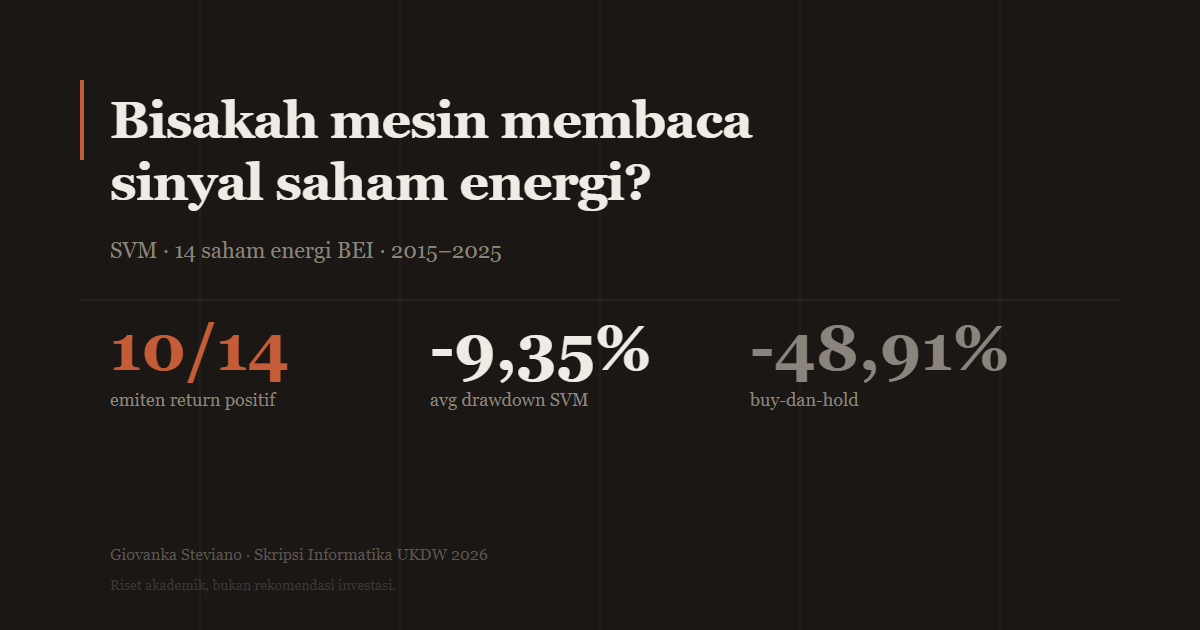
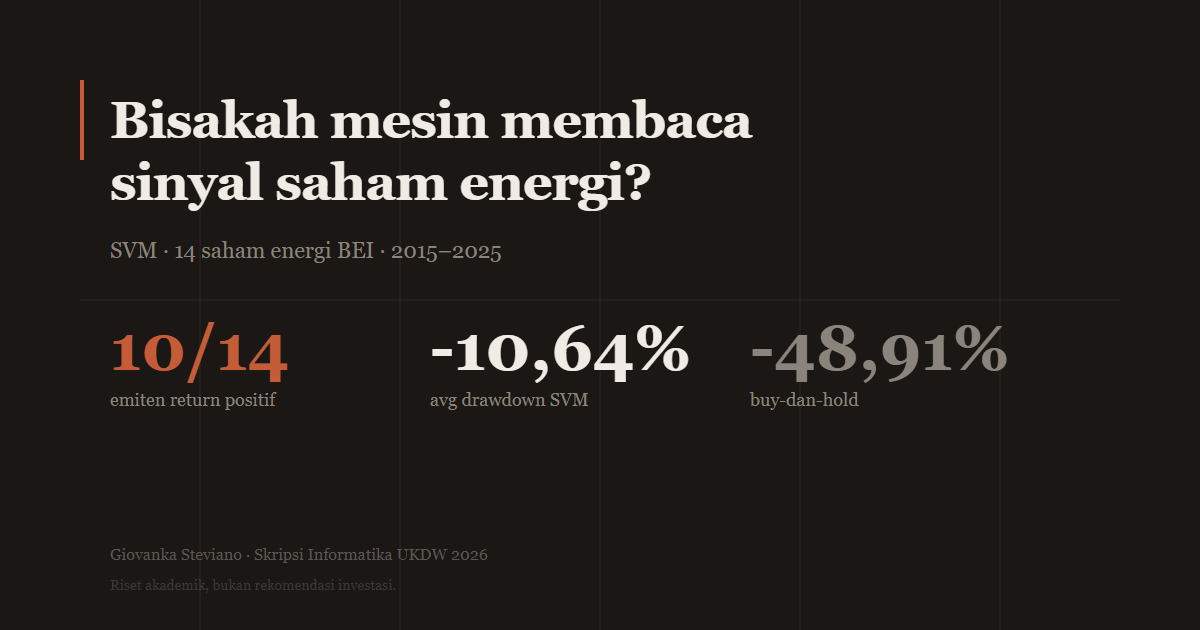
fix: align average SVM drawdown with the CV (-10.64%)

Changed region(s): [[0.37, 0.5127, 0.5858, 0.6032]]

diff --git a/src/translations.js b/src/translations.js
@@ -15,7 +15,7 @@ export const translations = {
     // Hero
     heroKicker: "Skripsi Informatika, UKDW 2026",
     heroTitle: "Bisakah model mengurangi risiko di saham energi?",
-    heroDeck: "Empat indikator. Satu model SVM. 14 saham energi BEI, satu dekade harga harian. Hasilnya: 10 dari 14 emiten return positif dan ketika pasar turun, drawdown −9,35% vs −48,91% buy-and-hold.",
+    heroDeck: "Empat indikator. Satu model SVM. 14 saham energi BEI, satu dekade harga harian. Hasilnya: 10 dari 14 emiten return positif dan ketika pasar turun, drawdown −10,64% vs −48,91% buy-and-hold.",
     heroBtnMasalah: "Mulai dari masalah",
     heroBtnDemo: "Coba demo SVM",
 
@@ -70,7 +70,7 @@ export const translations = {
 
     // Section 04: Temuan
     temuanHeading: "SVM unggul bukan di pasar bull, tapi saat pasar turun.",
-    temuanPull: "Saat buy and hold anjlok -48,91%, strategi SVM menahan rata-rata kerugian di -9,35%.",
+    temuanPull: "Saat buy and hold anjlok -48,91%, strategi SVM menahan rata-rata kerugian di -10,64%.",
     temuanLead: "Ini bukan janji profit. Dari 14 emiten, 10 mencatat return positif (rata-rata 27.29%) dan SVM mengungguli buy-and-hold pada 7 emiten — 5 di antaranya lewat trading nyata, 2 sisanya karena model tidak pernah membuka posisi sama sekali.",
     temuanItemA: "SVM paling unggul di saham bearish: BUMI +17.15% vs -29.81%, ITMG +8.25% vs -44.38%.",
     temuanItemB: "Kernel Polynomial paling sering terpilih (6 dari 14 emiten), menandakan hubungan non-linear indikator dan sinyal.",
@@ -136,7 +136,7 @@ export const translations = {
     // Hero
     heroKicker: "Informatics Thesis, UKDW 2026",
     heroTitle: "Can a machine learning model mitigate risk in energy stocks?",
-    heroDeck: "Four indicators. One SVM model. 14 IDX energy stocks, a decade of daily prices. Results: 10 out of 14 stocks yielded positive returns, reducing average drawdown to −9.35% vs −48.91% for buy-and-hold during market downturns.",
+    heroDeck: "Four indicators. One SVM model. 14 IDX energy stocks, a decade of daily prices. Results: 10 out of 14 stocks yielded positive returns, reducing average drawdown to −10.64% vs −48.91% for buy-and-hold during market downturns.",
     heroBtnMasalah: "Start with problem",
     heroBtnDemo: "Try SVM demo",
 
@@ -191,7 +191,7 @@ export const translations = {
 
     // Section 04: Temuan
     temuanHeading: "SVM excels not in bull markets, but during downturns.",
-    temuanPull: "While buy-and-hold dropped −48.91%, the SVM strategy capped average drawdown at −9.35%.",
+    temuanPull: "While buy-and-hold dropped −48.91%, the SVM strategy capped average drawdown at −10.64%.",
     temuanLead: "This is not a profit guarantee. Among 14 stocks, 10 achieved positive returns (average +27.29%) and SVM outperformed buy-and-hold on 7 stocks — 5 through actual trading, the other 2 only because the model never opened a position at all.",
     temuanItemA: "SVM performed best on bearish stocks: BUMI +17.15% vs -29.81%, ITMG +8.25% vs -44.38%.",
     temuanItemB: "Polynomial kernel was selected most frequently (6 of 14 stocks), highlighting non-linear indicator-signal relationships.",

diff --git a/index.html b/index.html
@@ -7,7 +7,7 @@
     <title>Demo Riset Interaktif - SVM Trading Strategy Saham Energi</title>
     <meta name="description" content="Eksplorasi interaktif riset tentang implementasi Support Vector Machine untuk strategi trading saham sektor energi BEI — masalah, metode, bukti, dan demo model langsung." />
     <meta property="og:title" content="Bisakah mesin membaca sinyal jual-beli saham energi?" />
-    <meta property="og:description" content="SVM + 4 indikator teknikal pada 14 saham energi BEI 2015–2025. 10 dari 14 emiten return positif. Drawdown rata-rata −9,35% vs −48,91% buy-and-hold." />
+    <meta property="og:description" content="SVM + 4 indikator teknikal pada 14 saham energi BEI 2015–2025. 10 dari 14 emiten return positif. Drawdown rata-rata −10,64% vs −48,91% buy-and-hold." />
     <meta property="og:type" content="article" />
     <meta property="og:url" content="https://gio71220924.github.io/Interactive-Skripsi/" />
     <meta property="og:image" content="https://gio71220924.github.io/Interactive-Skripsi/og-image.png" />
@@ -16,7 +16,7 @@
     <meta property="og:image:height" content="630" />
     <meta name="twitter:card" content="summary_large_image" />
     <meta name="twitter:title" content="Bisakah mesin membaca sinyal jual-beli saham energi?" />
-    <meta name="twitter:description" content="SVM + 4 indikator teknikal pada 14 saham energi BEI 2015–2025. 10 dari 14 emiten return positif. Drawdown −9,35% vs −48,91% buy-and-hold." />
+    <meta name="twitter:description" content="SVM + 4 indikator teknikal pada 14 saham energi BEI 2015–2025. 10 dari 14 emiten return positif. Drawdown −10,64% vs −48,91% buy-and-hold." />
     <meta name="twitter:image" content="https://gio71220924.github.io/Interactive-Skripsi/og-image.png" />
     <meta name="author" content="Giovanka Steviano Harry Premono" />
   </head>

diff --git a/src/App.jsx b/src/App.jsx
@@ -432,7 +432,7 @@ export default function App() {
         <section className="handoff" id="handoff">
           <p className="chapter-label">{t.handoffLabel}</p>
           <div className="handoff-stat">
-            <span className="handoff-stat-number">−9,35%</span>
+            <span className="handoff-stat-number">−10,64%</span>
             <span className="handoff-stat-divider" />
             <span className="handoff-stat-caption">{t.handoffStat}</span>
           </div>
